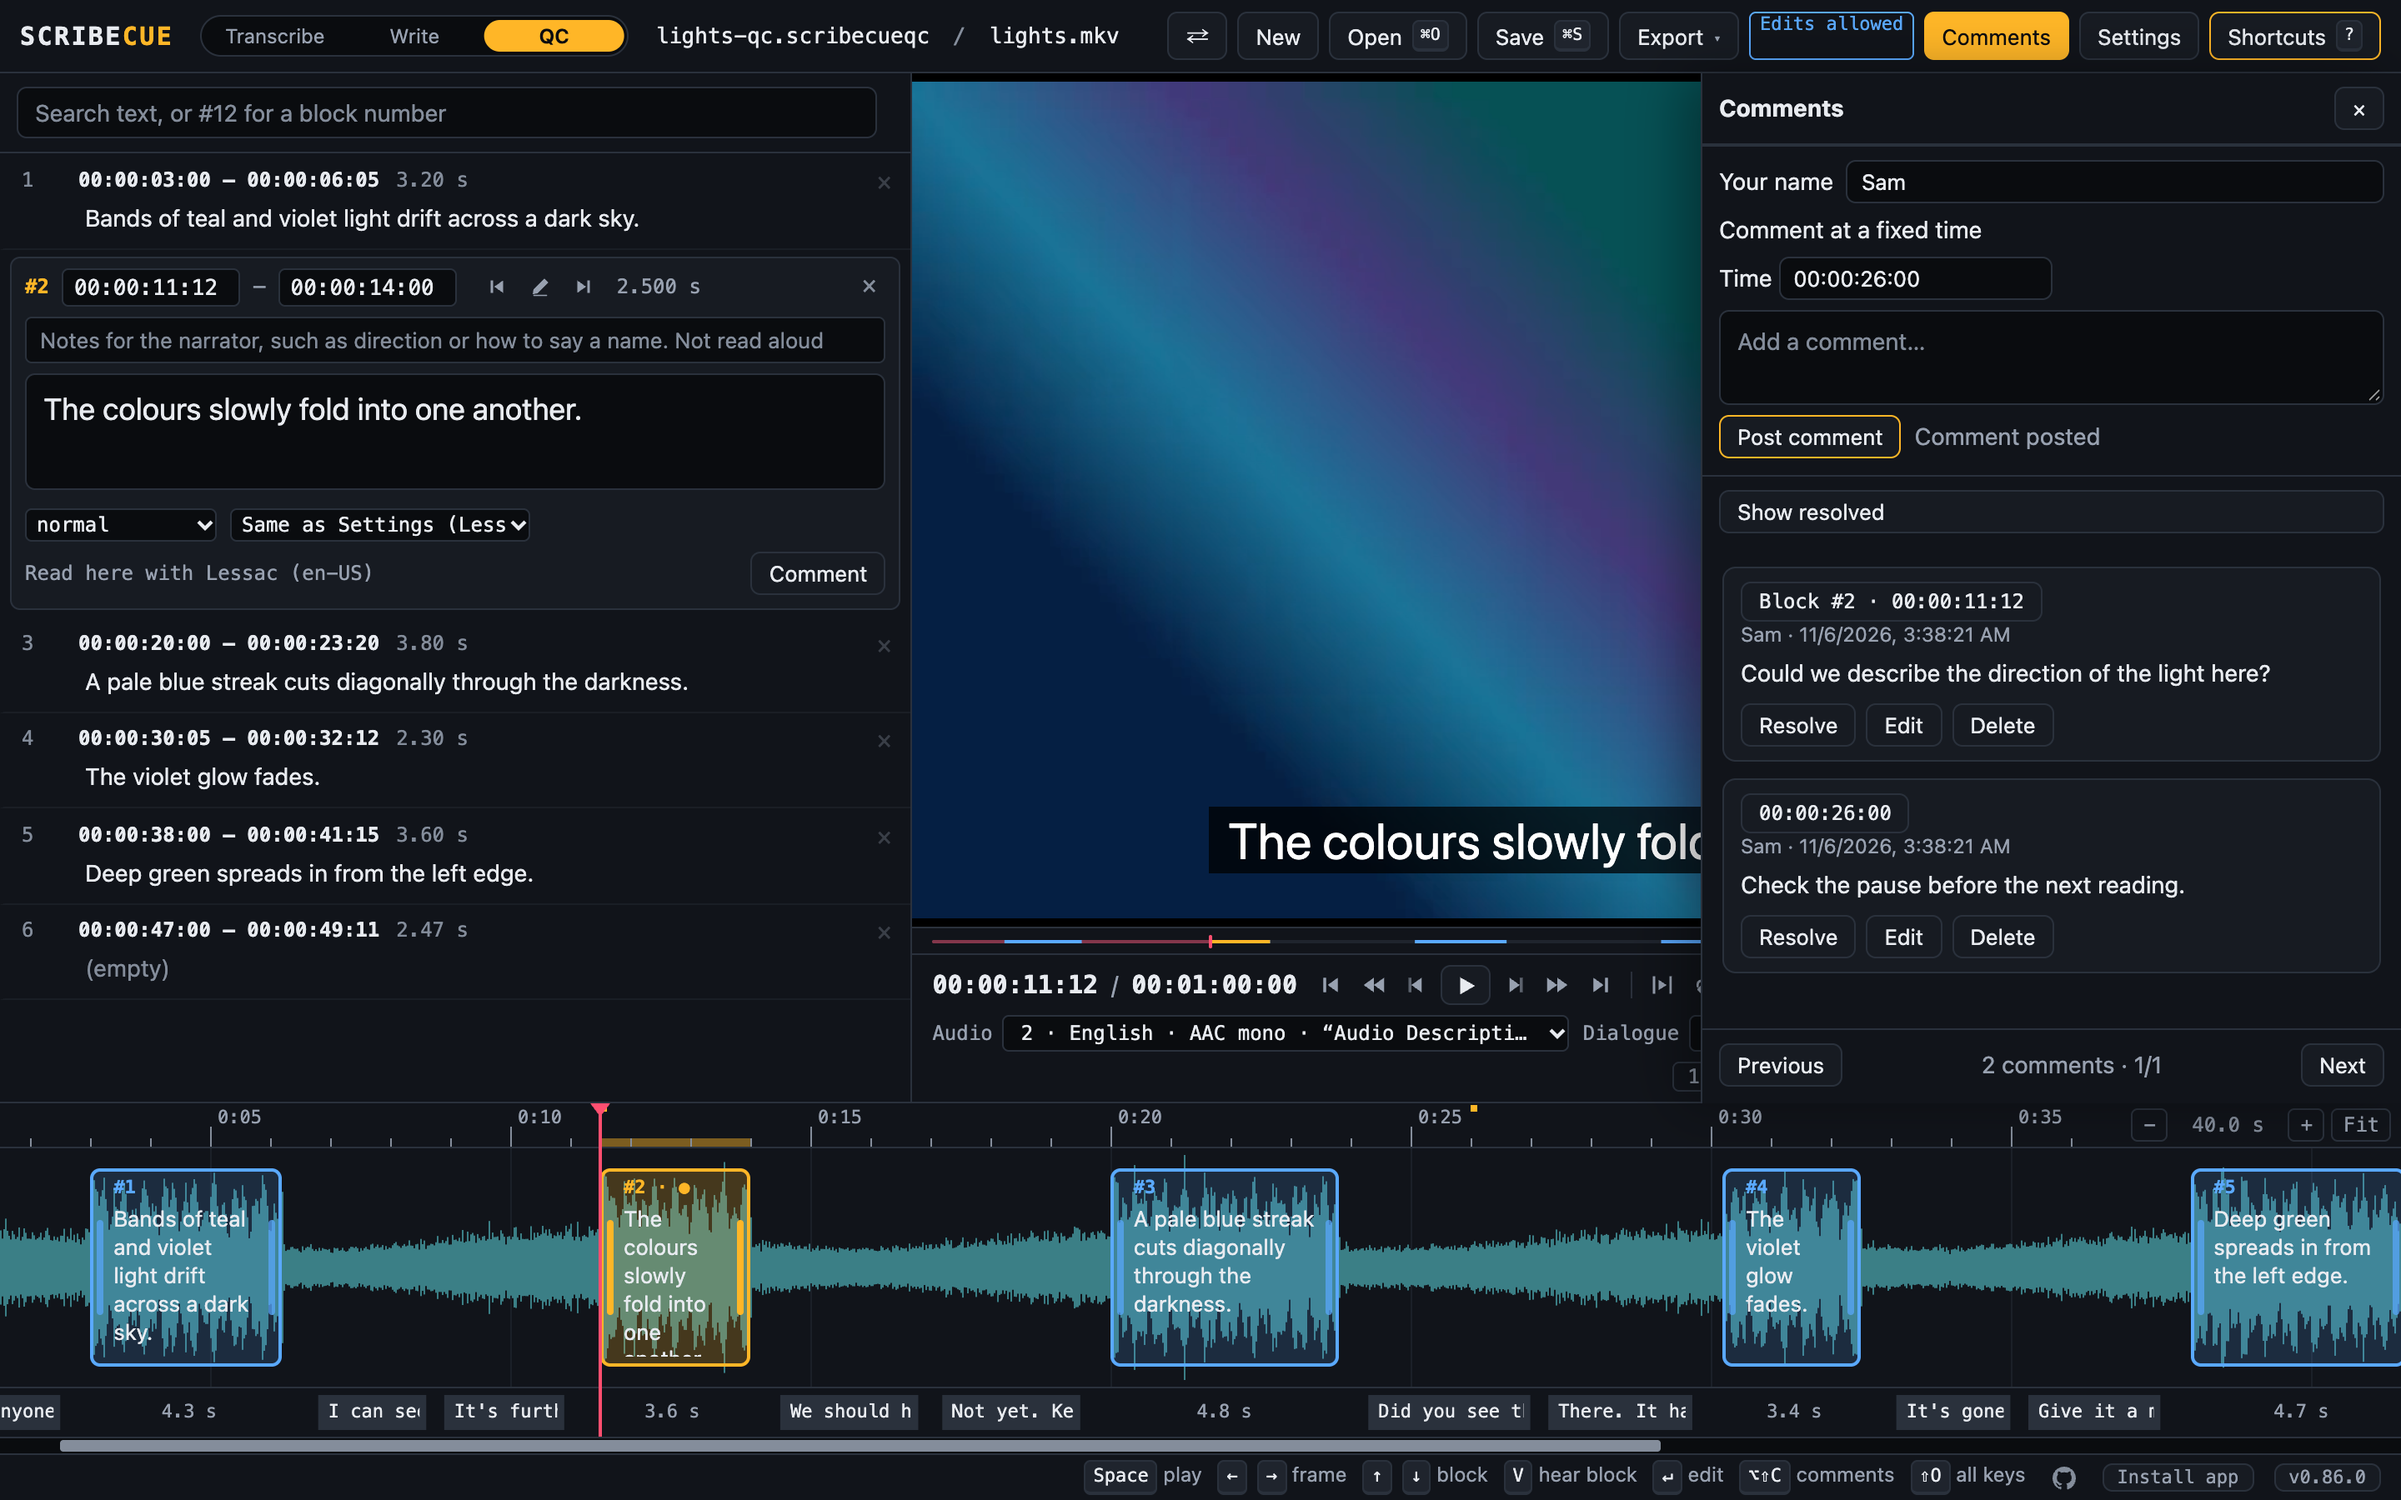
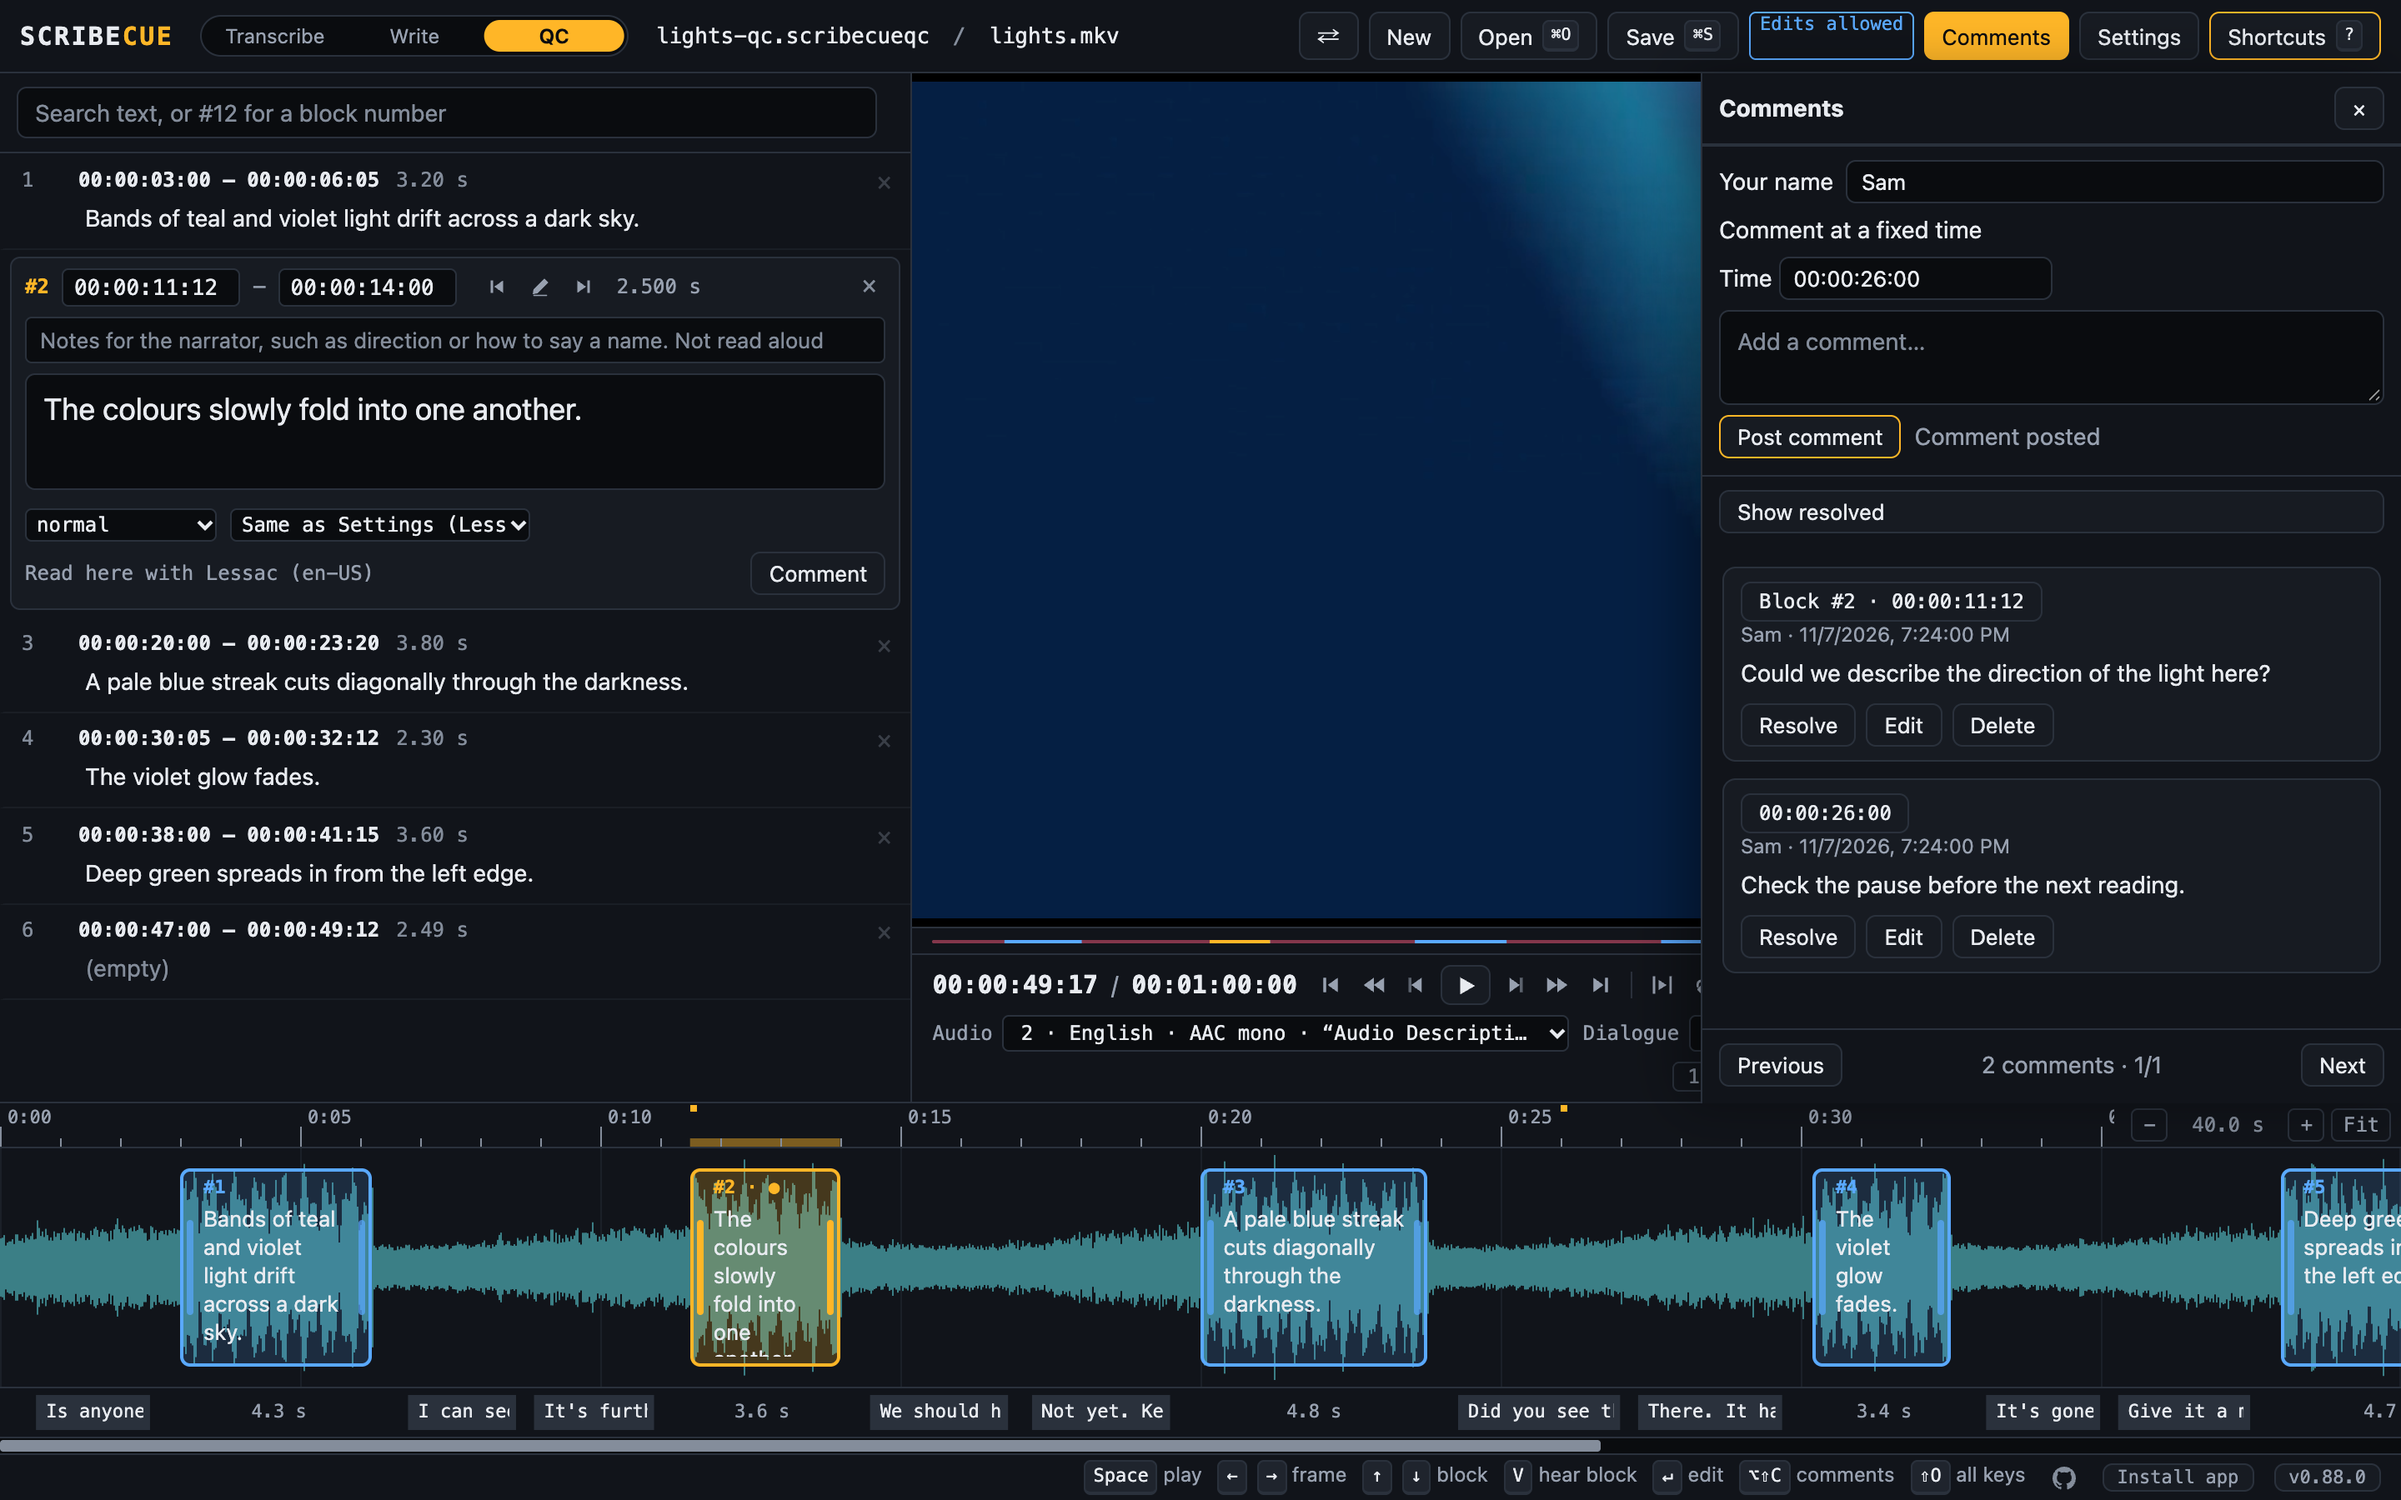
Send the saved QC package back instead of a return package
Reviewers now save the QC package and send that file back. The Export
menu is hidden while a QC package is open in QC, since the return
package was its only export there. Ctrl/Cmd+E points to saving instead.

diff --git a/app/js/app.js b/app/js/app.js
@@ -4526,7 +4526,7 @@ function fileKeys(e) {
 
 function exportSubs(fmt) {
   if (S.mode === 'record') return toast('The script is locked in Record mode');
-  if (qc() && S.reviewId) return toast('To send your review back, choose Export, then Return package');
+  if (qc() && S.reviewId) return toast('To send your review back, save the QC package and send that file');
   if (!S.cues.length) return toast('Nothing to export yet');
   checkFirst(() => writeSubs(fmt));
 }
@@ -5532,7 +5532,6 @@ const actions = {
     if (!ttsPauseList.disabled) ttsPauseList.click();
   },
   exportQc: () => (S.reviewId ? openQcExport() : checkFirst(openQcExport)),
-  exportReturn: () => saveReturnPackage(),
   exportRecording: () => checkFirst(askRecordingFile),
   checkSpelling: () => openCheck(),
   exportNarration: () => recorder.exportWav(),
@@ -5617,16 +5616,6 @@ function qcSpeech(prevT, t, started, leapt) {
   if (!c || isExt(c) || tts.speaking?.id === c.id || S.qcLast === c.id) return;
   if (S.qcSource === 'package' && !liveRead(c)) return;
   if (jumped || (prevT <= c.start && t > c.start)) qcRead(c);
-}
-// What a reviewer sends back: the package without any bundled review key.
-function saveReturnPackage() {
-  if (!S.reviewId) return toast('Open a QC package to save a return package');
-  if (!S.review) return toast('Reopen the QC package to restore its original readings');
-  const file = resaveReview(S.review, projectData());
-  const a = document.createElement('a'), url = URL.createObjectURL(file);
-  a.href = url; a.download = baseName() + '-returned' + REVIEW_EXT; a.click();
-  setTimeout(() => URL.revokeObjectURL(url), 60000);
-  toast('Return package saved without the review key. Your working copy keeps it');
 }
 initQc({
   package: () => !!S.reviewId,

diff --git a/app/index.html b/app/index.html
@@ -52,13 +52,9 @@
       <button data-act="newProject" data-tip="Start again: clear the blocks and keep the video, or start a new project">New</button>
       <button data-act="openSubs" data-tip="Open a project, a script (SRT or VTT), or a video or audio file, or several at once ({mod}O). Only video or audio: {mod}⇧O">Open <kbd><span class="mod"></span>O</kbd></button>
       <button data-act="saveProject" data-tip="Save the project: blocks, settings and where you were ({mod}S). Save as a new file with {mod}⇧S">Save <kbd><span class="mod"></span>S</kbd></button>
-      <span class="navwrap">
+      <span class="navwrap export-wrap">
         <button data-act="exportMenu" id="exportBtn" aria-haspopup="menu" aria-expanded="false" aria-controls="exportMenu">Export <span class="caret" aria-hidden="true">▾</span></button>
         <div class="navmenu" id="exportMenu" role="menu" aria-labelledby="exportBtn" hidden>
-          <div role="group" class="menugroup return-export" aria-labelledby="expWriter">
-            <div class="menuhead" id="expWriter">For the writer</div>
-            <button role="menuitem" data-act="exportReturn"><span><strong>Return package</strong><span class="dim">your comments and fixes, to send back to the writer, without any review key</span></span></button>
-          </div>
           <div role="group" class="menugroup qc-export" aria-labelledby="expReviewer">
             <div class="menuhead" id="expReviewer">For a reviewer</div>
             <button role="menuitem" data-act="exportQc"><span><strong>QC package</strong><span class="dim">the project and its Google, Amazon Polly and Kokoro readings, ready to review on another computer</span></span></button>

diff --git a/app/js/qcdrawer.js b/app/js/qcdrawer.js
@@ -32,7 +32,7 @@ export function refreshQc() {
   $('qcSourcePackage').textContent = review?.proposals.length ? 'Saved readings' : 'Original readings';
   const rereading = h.package() && review?.permissions.allowEdits ? [...new Set([...review.rereadVoices].map(keyName))] : [];
   $('qcKeyInfo').hidden = !rereading.length;
-  $('qcKeyInfo').textContent = `${rereading.map((name) => keyNote(name, review)).join(' ')} Only changed wording or speed needs ${rereading.map((name) => (name === 'AWS' ? 'Amazon' : name)).join(' or ')}. Saved readings play offline. Save keeps the review key for continued work; Export → Return package leaves it out.`;
+  $('qcKeyInfo').textContent = `${rereading.map((name) => keyNote(name, review)).join(' ')} Only changed wording or speed needs ${rereading.map((name) => (name === 'AWS' ? 'Amazon' : name)).join(' or ')}. Saved readings play offline. The saved package keeps the review key. The writer can delete it when the review is done.`;
   const select = $('qcPreviewVoice'), selected = select.value;
   select.replaceChildren(...reviewVoices().map((v) => new Option(v.name, v.id)));
   select.value = reviewVoices().some((v) => v.id === selected) ? selected : chosenVoice();

diff --git a/app/css/style.css b/app/css/style.css
@@ -1234,9 +1234,8 @@ button.danger { color: var(--warn); border-color: var(--warn); font-weight: 600;
 .mode-qc.qc-editing .qc-edit-only { display: revert; }
 
 .qc-package .qc-export { display: none; }
-/* A reviewer with a QC package open sends back a return package, not a script. */
-body:not(.mode-qc) .return-export, body:not(.qc-package) .return-export { display: none; }
-.mode-qc.qc-package .script-export { display: none; }
+/* A reviewer with a QC package open saves it and sends it back: nothing to export. */
+.mode-qc.qc-package .export-wrap { display: none; }
 
 /* Returned QC reviews reuse the dialog and pressed-button controls. */
 #reviewCompareDlg { width: min(820px, 92vw); }

diff --git a/Guides/QC.md b/Guides/QC.md
@@ -162,10 +162,9 @@ moving a block, or changing its volume makes no request. A block changed to anot
 says **New voice · needs a fresh package**. To hear it, ask the writer for a fresh package; the review key isn't used for it. Piper blocks are read again by your computer after any change. Kokoro blocks still need a fresh package
 or an explicitly chosen approximate preview after wording or speed changes.
 
-Use **Save** to keep working, including the separate review key. When finished, choose
-**Export → Return package**. It keeps the comments and saved
-recordings but leaves out the bundled key. Keep your working package: if browser recovery
-cannot restore its audio, reopen it before saving.
+Press **Save** as you work. When you're done, send the saved package back to the writer.
+It keeps your comments, fixes and new readings. If browser recovery can't restore its
+audio, reopen the package before saving.
 
 ### Checking a narration WAV
 
@@ -297,10 +296,9 @@ you spend time on it. See [Checking spelling and grammar](GETTING-STARTED.md#che
 
 1. Press `Ctrl/Cmd+S`. Check the project no longer has an unsaved-changes dot beside its name.
    If it says **autosave paused**, click it to allow saving, or save a new copy.
-2. For a QC package, choose **Export → Return package**. It leaves out any bundled key.
-   Send that `.scribecueqc` file. For a `.scribecue` project, send the saved project.
+2. Send the file you saved: the `.scribecueqc` package or the `.scribecue` project.
    Include changed media only if you've agreed to supply it.
-   With a QC package open, the return package is the only export. SRT and WebVTT can't carry comments.
+   With a QC package open in QC, there's no Export menu. SRT and WebVTT can't carry comments.
 3. Say which source project and picture cut you reviewed. State whether you changed
    the script or timings, and whether any checks remain unfinished.
 

diff --git a/Guides/GETTING-STARTED.md b/Guides/GETTING-STARTED.md
@@ -207,7 +207,7 @@ Your project is your master copy, so keep it. The other files are made for one p
 | --- | --- | --- |
 | A reviewer, for a text to speech review | [QC package](QC.md#make-a-portable-qc-package) (`.scribecueqc`) | **Export → QC package** |
 | A reviewer, for a recorded mix | Project (`.scribecue`) and a review mix | `Ctrl/Cmd+S` |
-| The writer, after a review | Return package (`.scribecueqc`), or the saved project if that's what you were sent | **Export → Return package** |
+| The writer, after a review | The package or project you were sent, saved with your review | `Ctrl/Cmd+S` |
 | A narrator | [Recording file](RECORDING.md#making-the-recording-file) (`.scribecuerec`) | **Export → Recording file** |
 | Your other computer, partway through recording | [Session package](RECORDING.md#moving-to-another-computer) (`.scribesession`) | **Export → Session package** |
 | A mixer | [Narration WAV](RECORDING.md#exporting-the-narration), or a Narration zip with alts | **Export**, in Record mode |

diff --git a/docs/development/collaboration.md b/docs/development/collaboration.md
@@ -96,8 +96,9 @@ with a plain exported script can still edit that script outside the review workf
   clip. Proposed clips must have valid bindings and hashes too. Audio stays sliced;
   package parsing and comparison run in workers.
 - Working saves and recovery keep the review key. `resaveReview` strips it by default;
-  only working saves opt in. Export → Return package, combined packages and author audio
-  attachments leave it out. Neither returned projects nor author JSON hold the key.
+  only working saves opt in. Reviewers send their working save back, so a returned package
+  still holds the key; writers delete it after the review. Combined packages, author audio
+  attachments and author JSON leave it out.
 
 ## Next: optional sharing service
 

diff --git a/Guides/GOOGLE-VOICES.md b/Guides/GOOGLE-VOICES.md
@@ -64,9 +64,9 @@ then choose **Include a separate Google review key** and paste it. Keep your mai
 
 The reviewer’s own key takes priority. If it fails, Scribecue offers to retry that
 reading with the bundled key. New wording or speed needs internet; saved recordings
-play offline. **Export → Return package** leaves out the bundled key.
+play offline.
 
-Anyone with a working package can read its included key. Delete the review key in
+Anyone with the package can read its included key, including the copy sent back to you. Delete the review key in
 Google Cloud when it is no longer needed. A separate key in the same Google project
 uses that project’s allowance.
 

diff --git a/Guides/POLLY-VOICES.md b/Guides/POLLY-VOICES.md
@@ -241,7 +241,6 @@ change the policy's end date.
 - **Costs:** the review key's readings go on your bill.
 - **If a key gets out:** delete it. Only the spending limit caps what it can cost.
 - **Over the limit:** the block stops your own voices as well, until next month.
-- **Return packages** leave the key out.
 
 ## If something goes wrong
 
